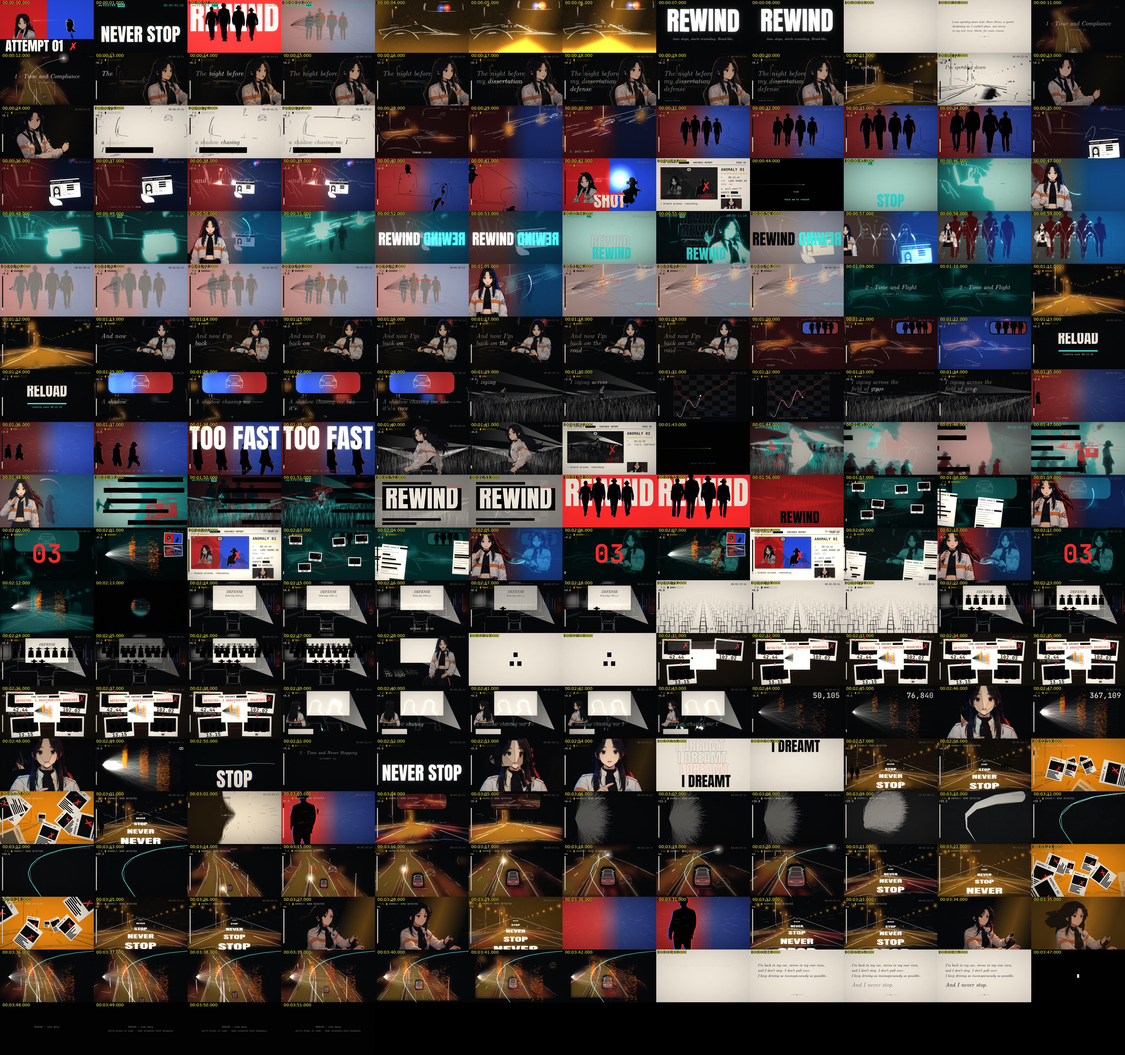
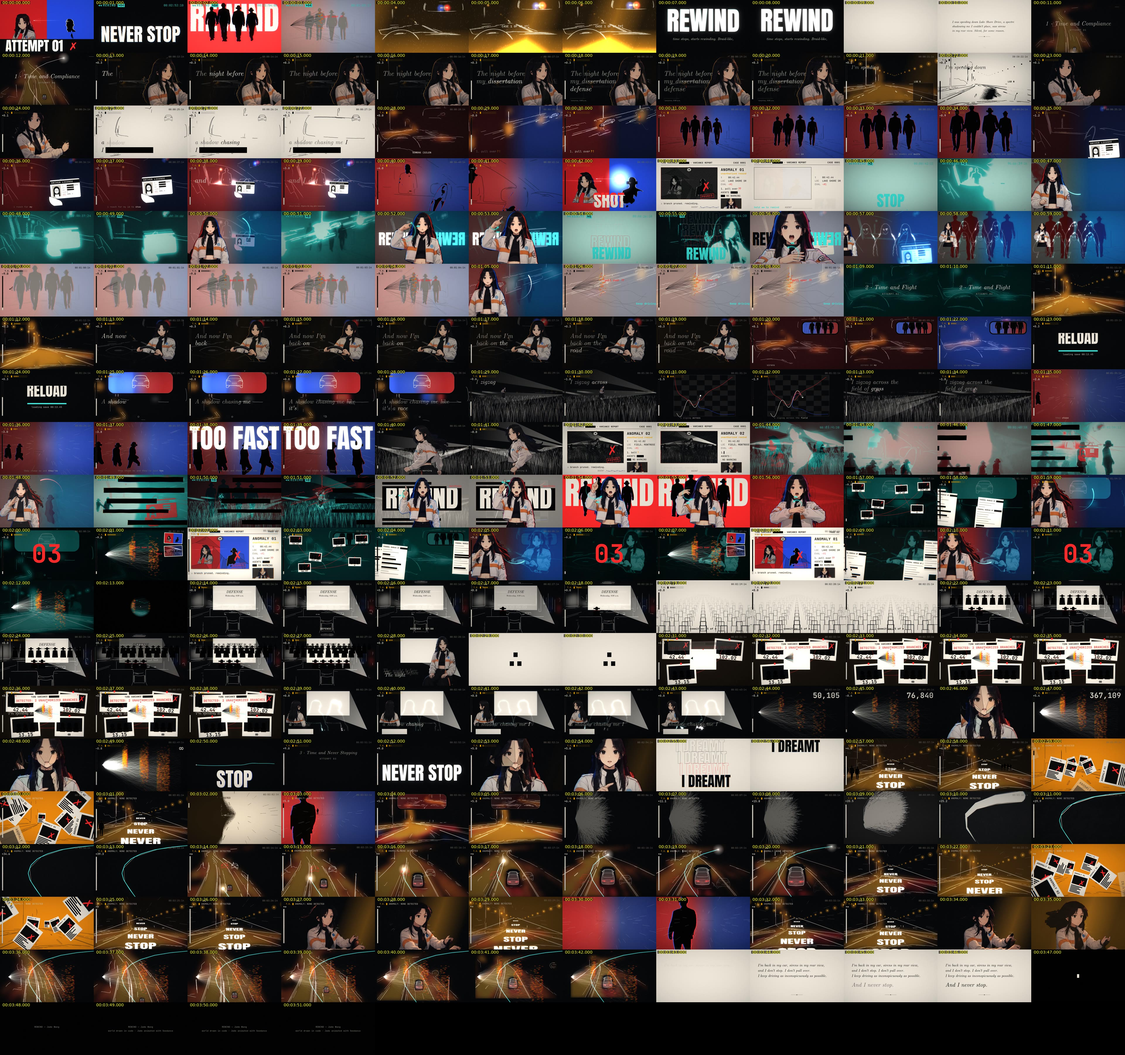
Draft v8: Time Variance reports that un-write, anomaly meter, rising case tally, sung Rewind performances, NONE DETECTED payoff
Claude-Session: https://claude.ai/code/session_01QH8JxH6iaaco1ynhTZZBdC

diff --git a/render/src/shots.js b/render/src/shots.js
@@ -184,10 +184,14 @@ export function buildShots(T) {
   add('R2_backward', R2a, R2b, 'rewind', { from: b6a, to: L(3).start, speeds: [2, 4, 8], segs: [0.3, 0.33, 0.37], hold: 0, lines: [] }, { fx: { kick: 0.8 } });
   for (const d of T.downbeatsIn(R2a + 0.1, R2b - 0.3)) C(`R2_j${DI(d)}`, d, Math.min(R2b, d + 2 * P), [ink, { type: 'sirens', side: 'pair', base: 0.5 },
     jade('J5_circle', { light: 'siren', late: P / 2, lateColor: PAL.cyan, cam: { from: [0.76, 0.42, 1.0], to: [0.76, 0.42, 1.08] } }), { type: 'circle', x: 960, y: 420, r: 320 }], { fx: { kick: 1, strobe: 0.6 } });
+  // sung "Rewind" = a Jade centre-lock performance (R_rw*, anime-direct, generated on the v5 mix: clock 'v5'), the REWIND slam
+  // behind her (depth sandwich: never over her face), her twirl drawn as a cyan CCW light-pen arc + ◀◀. off = clip s at the word.
+  const rwm = (id, off, cam, light = 'siren') => [jade(id, { light, cam, offset: off, loop: false, mouth: false }), { type: 'rwpen', roto: R.jade(id), offset: off, cam }];
+  const RWCAM = { from: [0.5, 0.47, 1.0], to: [0.5, 0.45, 1.1] };
   const R3b = T.downbeatsIn(L(6).start + P, L(7).start)[0] ?? L(6).start + bar;
-  C('R3_slam', L(6).start, R3b, [ink, { type: 'sirens', side: 'pair', base: 0.2, peak: 0.4 }, { type: 'slam', text: 'REWIND', variant: 'mirror', at: 0, y: 700 }], { fx: { kick: 1, jerks: [L(6).start] } });
+  C('R3_slam', L(6).start, R3b, [ink, { type: 'sirens', side: 'pair', base: 0.2, peak: 0.4 }, { type: 'slam', text: 'REWIND', variant: 'mirror', at: 0, y: 700 }, ...rwm('R_rw1', 1.3, RWCAM)], { fx: { kick: 1, jerks: [L(6).start] } });
   add('R3b_rewind', R3b, L(7).start, 'rewind', { from: L(3).start, to: L(0).start, speeds: [4, 8], segs: [0.5, 0.5], hold: 0, echo: 2, layers: [{ type: 'slam', text: 'REWIND', variant: 'stack', at: 0, onType: true, color: PAL.cyan }] }, { fx: { kick: 1 } });
-  C('R4_slam', L(7).start, T.chopsIn(L(7).start, L(7).start + 3)[0] ?? L(7).end, [{ type: 'fill', color: PAL.bone }, { type: 'slam', text: 'REWIND', variant: 'mirror', at: 0, y: 700, color: PAL.ink }], { fx: { kick: 1, jerks: [L(7).start] } }, { post: { bloom: 0 } });
+  C('R4_slam', L(7).start, T.chopsIn(L(7).start, L(7).start + 3)[0] ?? L(7).end, [{ type: 'fill', color: PAL.bone }, { type: 'slam', text: 'REWIND', variant: 'mirror', at: 0, y: 700, color: PAL.ink }, ...rwm('R_rw2', (L(7).start - 55.289) + 0.6, { from: [0.5, 0.36, 1.55], to: [0.52, 0.33, 1.8] })], { fx: { kick: 1, jerks: [L(7).start] } }, { post: { bloom: 0 } });
   const r5a = T.chopsIn(L(7).start, L(7).start + 3)[0] ?? L(7).end, r6a = T.downbeatsIn(r5a + 2, r5a + 6)[0];
   C('R5_hoots', r5a, r6a, [ink, { type: 'sirens', side: 'pair', base: 0.3 }, { type: 'ghosts', roto: R.jade('J5'), n: e => [2, 4, 8, 8][Math.min(3, Math.floor(e.lt / P / 1.5))] }], { fx: { kick: 1, strobe: 0.5 } });
   const r7a = T.downbeatsIn(r6a + 8.5, sec('verse3').start)[0] ?? sec('verse3').start - bar;
@@ -255,10 +259,10 @@ export function buildShots(T) {
     layers: [{ type: 'sweepbars', progress: e => (e.lt % (2 * P)) / (2 * P), n: 5, onType: true }] }, { fx: { jerks: [drop2], kick: 1 } });
   for (const d of T.downbeatsIn(drop2 + 1, r9 - 1).filter((_, i) => i % 2 === 1)) C(`R8_j${DI(d)}`, d, d + 2 * P, [ink, { type: 'sirens', side: 'pair', base: 0.5, peak: 0.6 }, jade('J5b', { light: 'siren', late: P / 2, lateColor: PAL.red, cam: { from: [0.76, 0.42, 1.0], to: [0.76, 0.42, 1.1] } }), { type: 'circle', x: 960, y: 420, r: 320, color: PAL.red }], { fx: { kick: 1, strobe: 0.6 } });
   C('R9_bars', r9, r10, [{ type: 'fill', color: PAL.bone }, { type: 'fill', color: PAL.red, when: e => e.t >= (T.downbeatsIn(r9 + 0.5, r10)[0] ?? r9 + bar) }, { type: 'slam', hits: [{ t: r9, text: 'REWIND', variant: 'bars', code: '(b)(7)(C)' }, { t: T.downbeatsIn(r9 + 0.5, r10)[0] ?? r9 + bar, text: 'REWIND', variant: 'behind' }] },
-    { type: 'suits', roto: R.suits('B3'), when: e => e.t >= (T.downbeatsIn(r9 + 0.5, r10)[0] ?? r9 + bar), cam: { from: [0.5, 0.5, 1.0], to: [0.5, 0.5, 1.15] } }],
+    { type: 'suits', roto: R.suits('B3'), when: e => e.t >= (T.downbeatsIn(r9 + 0.5, r10)[0] ?? r9 + bar), cam: { from: [0.5, 0.5, 1.0], to: [0.5, 0.5, 1.15] } }, ...rwm('R_rw3', (r9 - 111.652) + 0.75, RWCAM)],
     { fx: { kick: 1, jerks: [r9] } }, { post: { bloom: 0, vignette: 0.1 } });
   const r11 = T.downbeatsIn(r10 + 0.3, r10 + 3)[0] ?? r10 + bar / 2;
-  C('R10_stack', r10, r11, [{ type: 'fill', color: PAL.red }, { type: 'slam', text: 'REWIND', variant: 'stack', at: 0, color: PAL.ink }], { fx: { kick: 1, jerks: [r10] } }, { post: { bloom: 0 } });
+  C('R10_stack', r10, r11, [{ type: 'fill', color: PAL.red }, { type: 'slam', text: 'REWIND', variant: 'stack', at: 0, color: PAL.ink }, ...rwm('R_rw4', (r10 - 115.258) + 0.63, { from: [0.5, 0.45, 1.12], to: [0.48, 0.43, 1.22] })], { fx: { kick: 1, jerks: [r10] } }, { post: { bloom: 0 } });
   const r12 = T.downbeatsIn(bd - 1.5 * bar, bd)[0] ?? bd - bar;
   {
     const ks = [r11, ...T.kicksIn(r11 + 0.2, r12).filter((_, i) => i % 2 === 1)]; ks.push(r12);

diff --git a/render/src/layers.js b/render/src/layers.js
@@ -138,6 +138,42 @@ export const LAYERS = {
   bullet(ctx, L, env) { bullet(ctx.g, { x: A(L.x, env, 760), y: A(L.y, env, 470), len: L.len ?? 1100, angle: L.angle ?? 0.03, color: L.color, comp: L.comp }); },
   dot(ctx, L, env) { const g = ctx.g; g.fillStyle = L.color || PAL.bone; g.beginPath(); g.arc(A(L.x, env, DW / 2), A(L.y, env, DH / 2), A(L.r, env, 6), 0, Math.PI * 2); g.fill(); },
 
+  // the rewind gesture as a light-pen: a cyan counter-clockwise arc + arrowhead + ◀◀ that follows her twirling fingertip
+  // (meta.fingertip from tools/jade2/fingertip.py). The arc advances with the finger's own travel, always CCW, so it reads
+  // as "rewind" even when the hand rolls. L: {roto, offset (clip s at lt 0), cam (same as her jade layer)}
+  rwpen(ctx, L, env, { roto }) {
+    const id = L.roto, m = roto.meta(id); if (!m || !m.fingertip) return;
+    const FT = m.fingertip, n = FT.length;
+    if (!m._pen) {   // per-frame cumulative travel, local centre, radius, activity
+      const S = [0]; for (let i = 1; i < n; i++) { const a = FT[i - 1], b = FT[i]; S.push(S[i - 1] + (a && b ? Math.hypot(b[0] - a[0], b[1] - a[1]) : 0)); }
+      const C = [], Rr = [], act = [];
+      for (let i = 0; i < n; i++) {
+        const win = []; for (let j = Math.max(0, i - 7); j <= Math.min(n - 1, i + 7); j++) if (FT[j]) win.push(FT[j]);
+        const cx = win.reduce((q, p) => q + p[0], 0) / Math.max(1, win.length), cy = win.reduce((q, p) => q + p[1], 0) / Math.max(1, win.length);
+        C.push([cx, cy]); Rr.push(clamp(1.5 * win.reduce((q, p) => q + Math.hypot(p[0] - cx, p[1] - cy), 0) / Math.max(1, win.length), 80, 210));
+        let sp = 0; for (let j = Math.max(1, i - 4); j <= Math.min(n - 1, i + 4); j++) sp = Math.max(sp, S[j] - S[j - 1]); act.push(smooth(6, 20, sp));
+      }
+      m._pen = { S, C, Rr, act };
+    }
+    const { S, C, Rr, act } = m._pen;
+    const ct = roto.clipTime(id, env.lt, { offset: L.offset ?? 0 }), fi = Math.min(n - 1, Math.max(0, ct * m.fps)), i0 = Math.floor(fi), i1 = Math.min(n - 1, i0 + 1), fr = fi - i0;
+    const a = (act[i0] * (1 - fr) + act[i1] * fr) * A(L.alpha, env, 1); if (a < 0.02) return;
+    const rect = camRect(L.cam, env), kx = rect.w / m.w, ky = rect.h / m.h;
+    const cx = rect.x + lerp(C[i0][0], C[i1][0], fr) * kx, cy = rect.y + lerp(C[i0][1], C[i1][1], fr) * ky, r = lerp(Rr[i0], Rr[i1], fr) * kx;
+    const th = -lerp(S[i0], S[i1], fr) / Math.max(40, lerp(Rr[i0], Rr[i1], fr)) * 1.1, span = 4.6;   // CCW on screen = decreasing angle
+    const g = ctx.ty; g.save(); g.lineCap = 'round'; g.shadowColor = PAL.cyan; g.shadowBlur = 18;
+    const N = 48;
+    for (let k = 0; k < N; k++) {   // tail fades out behind the head
+      const u0 = k / N, u1 = (k + 1) / N, t0 = th + span * (1 - u0), t1 = th + span * (1 - u1);
+      g.strokeStyle = rgba(PAL.cyan, a * Math.pow(u1, 1.4)); g.lineWidth = 3 + 6 * u1;
+      g.beginPath(); g.moveTo(cx + r * Math.cos(t0), cy + r * Math.sin(t0)); g.lineTo(cx + r * Math.cos(t1), cy + r * Math.sin(t1)); g.stroke();
+    }
+    const hx = cx + r * Math.cos(th), hy = cy + r * Math.sin(th), tx = Math.sin(th), tyy = -Math.cos(th);   // tangent in the CCW direction
+    g.fillStyle = rgba(PAL.cyan, a); g.beginPath(); g.moveTo(hx + tx * 30, hy + tyy * 30); g.lineTo(hx - tx * 6 - tyy * 18, hy - tyy * 6 + tx * 18); g.lineTo(hx - tx * 6 + tyy * 18, hy - tyy * 6 - tx * 18); g.closePath(); g.fill();
+    g.shadowBlur = 10; setFont(g, F.mono(56, 700), 0); g.textAlign = 'center'; g.textBaseline = 'middle';
+    const gx = cx + (r + 70) * Math.cos(th + 0.5), gy = cy + (r + 70) * Math.sin(th + 0.5); g.fillText('◀◀', gx, gy);
+    g.restore();
+  },
   // roadside agents (final drop payoff): a still group on each shoulder sliding past as she drives. Frozen frame, no glint,
   // heads never turn — no anomaly, nothing to track. L: {roto, period (s), still frame (s), horizon y}
   roadside(ctx, L, env, { roto }) {

diff --git a/tools/jade2/fingertip.py b/tools/jade2/fingertip.py
@@ -1,0 +1,43 @@
+# fingertip.py: track her raised (twirling) index fingertip per roto frame with the MediaPipe pose landmarker
+# (index-finger landmarks 19/20), for the cyan light-pen rewind arc. Writes meta.fingertip = [[x, y] | null, ...] at roto res.
+#   python3 tools/jade2/fingertip.py R_rw1 [R_rw2 ...]
+import os, sys, json, numpy as np, cv2
+import mediapipe as mp
+ROOT = os.path.abspath(os.path.dirname(__file__) + '/../..')
+MODEL = ROOT + '/tools/roto/models/pose_landmarker_heavy.task'
+
+def run(J):
+    d = f'{ROOT}/assets/roto/{J}'; meta = json.load(open(d + '/meta.json'))
+    opts = mp.tasks.vision.PoseLandmarkerOptions(base_options=mp.tasks.BaseOptions(model_asset_path=MODEL), running_mode=mp.tasks.vision.RunningMode.VIDEO, num_poses=1)
+    det = mp.tasks.vision.PoseLandmarker.create_from_options(opts)
+    cap = cv2.VideoCapture(f"{ROOT}/{meta['src']}"); sfps = cap.get(cv2.CAP_PROP_FPS); frames = []
+    while True:
+        ok, f = cap.read()
+        if not ok: break
+        frames.append(f)
+    W, H = meta['w'], meta['h']; out = []
+    for i in range(meta['frames']):
+        f = cv2.resize(frames[min(len(frames) - 1, int(round(i / meta['fps'] * sfps)))], (W, H))
+        r = det.detect_for_video(mp.Image(image_format=mp.ImageFormat.SRGB, data=cv2.cvtColor(f, cv2.COLOR_BGR2RGB)), int(i * 1000 / meta['fps']))
+        tip = None
+        if r.pose_landmarks:
+            lm = r.pose_landmarks[0]
+            c = [(lm[k].x * W, lm[k].y * H, lm[k].visibility) for k in (19, 20)]   # left / right index fingertip
+            c = [p for p in c if p[2] > 0.3]
+            if c: p = min(c, key=lambda p: p[1]); tip = [round(p[0], 1), round(p[1], 1)]   # the raised hand: the higher tip
+        out.append(tip)
+    # fill short gaps + light smoothing (3-tap) so the pen stroke is continuous
+    xs = [p for p in out]; n = len(xs)
+    for i in range(n):
+        if xs[i] is None:
+            a = next((xs[j] for j in range(i - 1, max(-1, i - 4), -1) if out[j]), None); b = next((xs[j] for j in range(i + 1, min(n, i + 4)) if out[j]), None)
+            if a and b: xs[i] = [(a[0] + b[0]) / 2, (a[1] + b[1]) / 2]
+    sm = []
+    for i in range(n):
+        win = [xs[j] for j in range(max(0, i - 1), min(n, i + 2)) if xs[j]]
+        sm.append([round(sum(p[0] for p in win) / len(win), 1), round(sum(p[1] for p in win) / len(win), 1)] if xs[i] and win else None)
+    meta['fingertip'] = sm; json.dump(meta, open(d + '/meta.json', 'w'))
+    print(J, sum(1 for p in sm if p), '/', n, 'frames tracked')
+
+if __name__ == '__main__':
+    for J in sys.argv[1:]: run(J)
